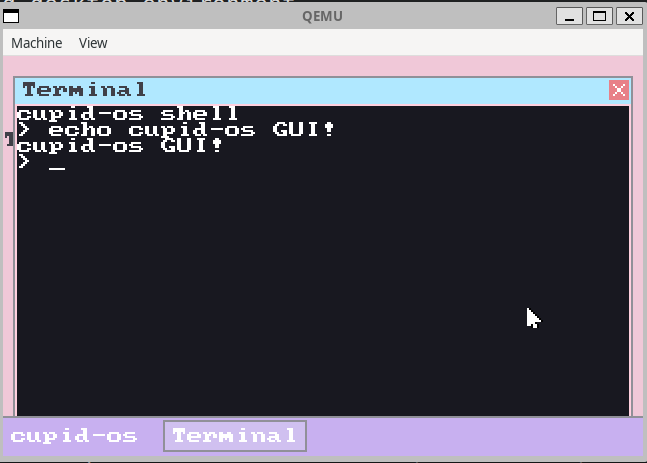
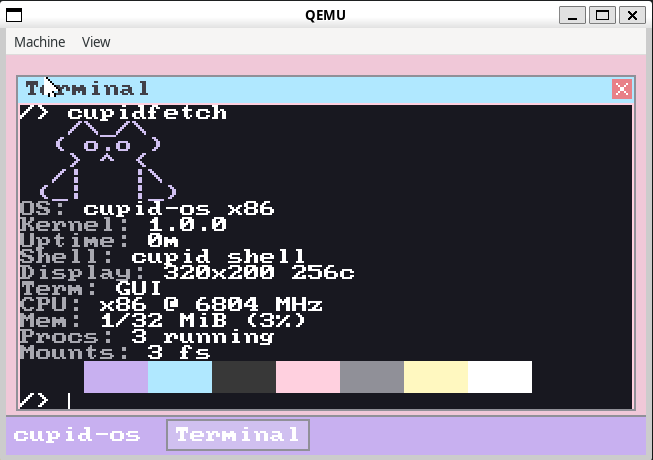
cupidfetch!

Changed region(s): [[0.0, 0.0, 1.0, 1.0], [0.8037, 0.6696, 0.8346, 0.7304]]

diff --git a/kernel/shell.c b/kernel/shell.c
@@ -468,6 +468,7 @@ static void shell_terminal_cmd(const char* args);
 static void shell_setcolor_cmd(const char* args);
 static void shell_resetcolor_cmd(const char* args);
 static void shell_printc_cmd(const char* args);
+static void shell_cupidfetch(const char* args);
 
 // List of supported commands
 static struct shell_command commands[] = {
@@ -514,6 +515,7 @@ static struct shell_command commands[] = {
     {"setcolor", "Set terminal color (fg [bg])", shell_setcolor_cmd},
     {"resetcolor", "Reset terminal colors", shell_resetcolor_cmd},
     {"printc", "Print colored text (fg text)", shell_printc_cmd},
+    {"cupidfetch", "Show system info with ASCII art", shell_cupidfetch},
     {0, 0, 0} // Null terminator
 };
 
@@ -1001,11 +1003,16 @@ static void shell_help(const char* args) {
 static void shell_clear(const char* args) {
     (void)args;
     if (output_mode == SHELL_OUTPUT_GUI) {
-        /* Clear GUI buffer; the prompt will be printed by
-         * shell_gui_handle_key after the command returns. */
+        /* Clear GUI buffer and color buffer */
         memset(gui_buffer, 0, sizeof(gui_buffer));
+        for (int i = 0; i < SHELL_ROWS * SHELL_COLS; i++) {
+            gui_color_buffer[i].fg = ANSI_DEFAULT_FG;
+            gui_color_buffer[i].bg = ANSI_DEFAULT_BG;
+        }
         gui_cursor_x = 0;
         gui_cursor_y = 0;
+        /* Reset ANSI color state so subsequent output uses defaults */
+        ansi_reset(&shell_ansi_state);
     } else {
         clear_screen();
     }
@@ -1323,6 +1330,177 @@ static void shell_sysinfo(const char* args) {
     shell_print_int(total_pg * 4); shell_print(" KB total\n");
 
     print_memory_stats();
+}
+
+/* ══════════════════════════════════════════════════════════════════════
+ *  cupidfetch — neofetch-style system information display
+ *
+ *  Shows an ASCII art cat mascot alongside colored system details.
+ * ══════════════════════════════════════════════════════════════════════ */
+
+/* Helper: write a decimal number into buf, return chars written */
+static int cf_itoa(uint32_t val, char *buf, int bufsize) {
+    if (bufsize <= 0) return 0;
+    if (val == 0) { buf[0] = '0'; buf[1] = '\0'; return 1; }
+    char tmp[12];
+    int i = 0;
+    while (val > 0 && i < 11) {
+        tmp[i++] = (char)('0' + (val % 10));
+        val /= 10;
+    }
+    int j = 0;
+    while (i > 0 && j < bufsize - 1) buf[j++] = tmp[--i];
+    buf[j] = '\0';
+    return j;
+}
+
+static void shell_cupidfetch(const char* args) {
+    (void)args;
+
+    /* ── ANSI color codes ─────────────────────────────────────── */
+    const char *c_cat   = "\x1B[95m";   /* bright magenta */
+    const char *c_hdr   = "\x1B[93m";   /* bright yellow  */
+    const char *c_label = "\x1B[96m";   /* bright cyan    */
+    const char *c_val   = "\x1B[97m";   /* bright white   */
+    const char *c_rst   = "\x1B[0m";    /* reset          */
+
+    /* ── Compact ASCII cat (fits in ~34 cols) ─────────────────── */
+    /* Stacked layout: cat on top, info below.
+     * GUI terminal is only ~38 cols wide (310px / 8px font). */
+    shell_print(c_cat);
+    shell_print("   /\\_/\\   \n");
+    shell_print("  ( o.o )  ");
+    shell_print(c_hdr);
+    shell_print("cupid-os\n");
+    shell_print(c_cat);
+    shell_print("   > ^ <   ");
+    shell_print(c_hdr);
+    shell_print("-----------\n");
+    shell_print(c_cat);
+    shell_print("  /|   |\\  \n");
+    shell_print(" (_|   |_) \n");
+    shell_print(c_rst);
+
+    /* ── Gather system information ─────────────────────────────── */
+    uint32_t ms       = timer_get_uptime_ms();
+    uint32_t cpu_mhz  = (uint32_t)(get_cpu_freq() / 1000000);
+    uint32_t free_pg  = pmm_free_pages();
+    uint32_t total_pg = pmm_total_pages();
+    uint32_t free_kb  = free_pg * 4;
+    uint32_t total_kb = total_pg * 4;
+    uint32_t used_kb  = total_kb - free_kb;
+    uint32_t mem_pct  = total_kb ? (used_kb * 100) / total_kb : 0;
+    uint32_t procs    = process_get_count();
+    int      mounts   = vfs_mount_count();
+    int      gui_mode = (shell_get_output_mode() == SHELL_OUTPUT_GUI);
+
+    /* Uptime components */
+    uint32_t secs = ms / 1000;
+    uint32_t mins = secs / 60;  secs %= 60;
+    uint32_t hrs  = mins / 60;  mins %= 60;
+    uint32_t days = hrs  / 24;  hrs  %= 24;
+    (void)secs;
+
+    /* Convert memory to MiB */
+    uint32_t used_mib  = used_kb  / 1024;
+    uint32_t total_mib = total_kb / 1024;
+
+    char nbuf[16];
+
+    /* ── Info lines (each ≤ 36 chars) ─────────────────────────── */
+
+    /* OS */
+    shell_print(c_label);  shell_print("OS: ");
+    shell_print(c_val);    shell_print("cupid-os x86\n");
+
+    /* Kernel */
+    shell_print(c_label);  shell_print("Kernel: ");
+    shell_print(c_val);    shell_print("1.0.0\n");
+
+    /* Uptime */
+    shell_print(c_label);  shell_print("Uptime: ");
+    shell_print(c_val);
+    if (days > 0) {
+        cf_itoa(days, nbuf, 16);  shell_print(nbuf);
+        shell_print("d ");
+    }
+    if (hrs > 0 || days > 0) {
+        cf_itoa(hrs, nbuf, 16);   shell_print(nbuf);
+        shell_print("h ");
+    }
+    cf_itoa(mins, nbuf, 16);     shell_print(nbuf);
+    shell_print("m\n");
+
+    /* Shell */
+    shell_print(c_label);  shell_print("Shell: ");
+    shell_print(c_val);    shell_print("cupid shell\n");
+
+    /* Display */
+    shell_print(c_label);  shell_print("Display: ");
+    shell_print(c_val);
+    if (gui_mode) {
+        shell_print("320x200 256c\n");
+    } else {
+        shell_print("80x25 16c\n");
+    }
+
+    /* Terminal */
+    shell_print(c_label);  shell_print("Term: ");
+    shell_print(c_val);
+    shell_print(gui_mode ? "GUI\n" : "VGA Text\n");
+
+    /* CPU */
+    shell_print(c_label);  shell_print("CPU: ");
+    shell_print(c_val);    shell_print("x86 @ ");
+    cf_itoa(cpu_mhz, nbuf, 16); shell_print(nbuf);
+    shell_print(" MHz\n");
+
+    /* Memory */
+    shell_print(c_label);  shell_print("Mem: ");
+    shell_print(c_val);
+    cf_itoa(used_mib, nbuf, 16);  shell_print(nbuf);
+    shell_print("/");
+    cf_itoa(total_mib, nbuf, 16); shell_print(nbuf);
+    shell_print(" MiB (");
+    cf_itoa(mem_pct, nbuf, 16);   shell_print(nbuf);
+    shell_print("%)\n");
+
+    /* Processes */
+    shell_print(c_label);  shell_print("Procs: ");
+    shell_print(c_val);
+    cf_itoa(procs, nbuf, 16);    shell_print(nbuf);
+    shell_print(" running\n");
+
+    /* Mounts */
+    shell_print(c_label);  shell_print("Mounts: ");
+    shell_print(c_val);
+    cf_itoa((uint32_t)mounts, nbuf, 16); shell_print(nbuf);
+    shell_print(" fs\n");
+
+    /* ── Color palette bars ───────────────────────────────────── */
+    /* Standard colors (2-char blocks to fit) */
+    for (int c = 0; c < 8; c++) {
+        char esc[8];
+        esc[0] = '\x1B'; esc[1] = '[';
+        esc[2] = '4'; esc[3] = (char)('0' + c);
+        esc[4] = 'm'; esc[5] = '\0';
+        shell_print(esc);
+        shell_print("    ");
+    }
+    shell_print(c_rst);
+    shell_putchar('\n');
+
+    for (int c = 0; c < 8; c++) {
+        char esc[12];
+        esc[0] = '\x1B'; esc[1] = '[';
+        esc[2] = '1'; esc[3] = '0';
+        esc[4] = (char)('0' + c); esc[5] = 'm';
+        esc[6] = '\0';
+        shell_print(esc);
+        shell_print("    ");
+    }
+    shell_print(c_rst);
+    shell_putchar('\n');
 }
 
 /* ── loglevel [debug|info|warn|error|panic] ── */
